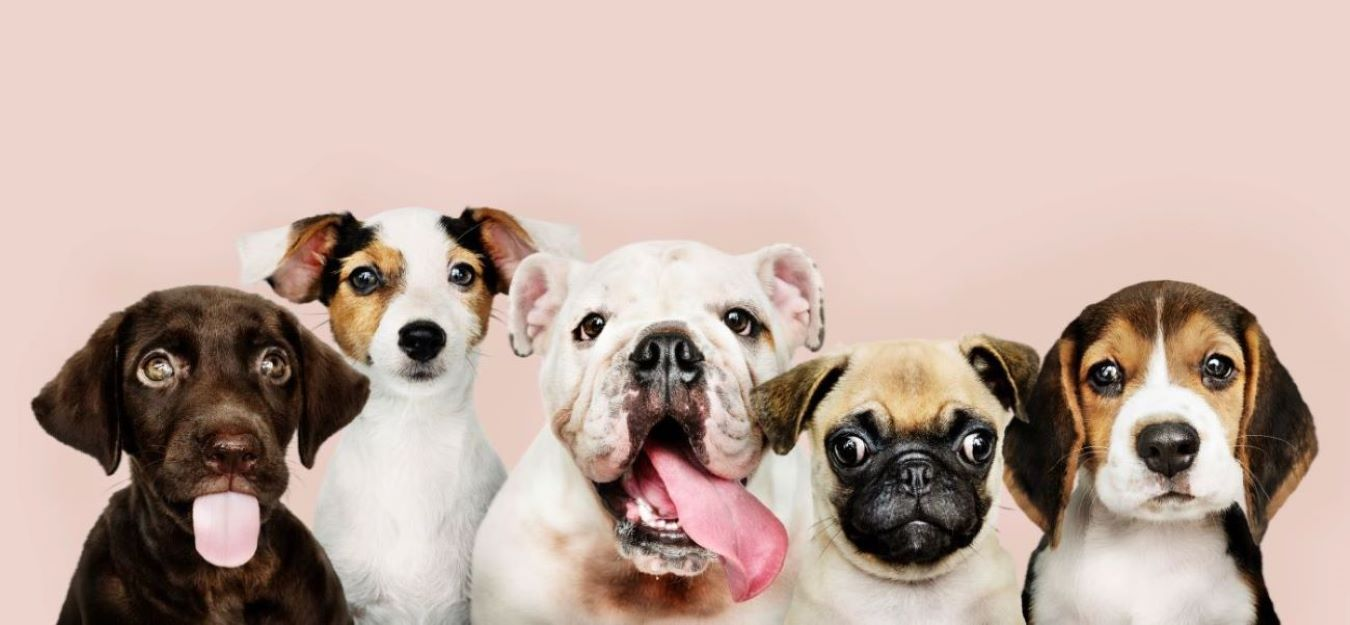
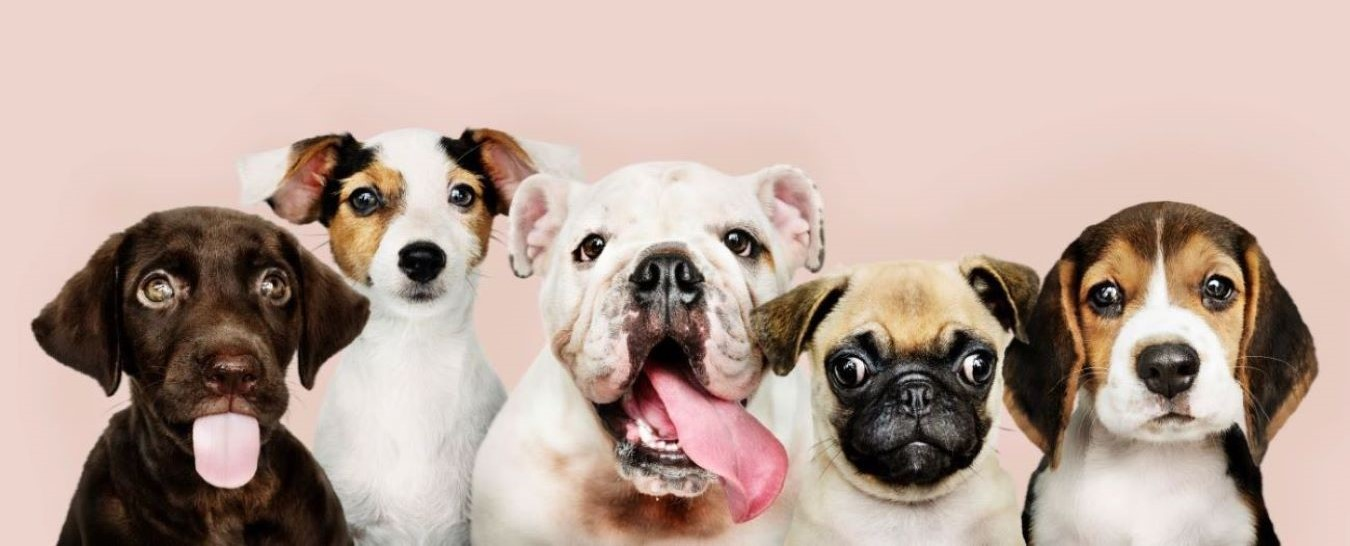
add and compare new background images for home page

diff --git a/src/app/components/Header.jsx b/src/app/components/Header.jsx
@@ -1,16 +1,22 @@
 import logo from "../../../public/assets/img/logo.png"
+import logo_writing from "../../../public/assets/img/logo writing.png"
 import Image from "next/image";
 
 export default function Header() {
   return <header> 
-    <div class="bg-pink-500 h-20 flex items-center">
+    <div class="bg-pink-200 h-20 flex items-center">
     <Image class=""
           src={logo}
           width={80}
           height={80}
           alt="Lau's Paws logo"
         />
-    <span class="text-white text-3xl tracking-tighter font-semibold">LAU'S  PAWS</span>
+    <Image class="pt-2"
+          src={logo_writing}
+          width={200}
+          height={300}
+          alt="Lau's Paws logo"
+        />
     </div>
 
   </header>;

diff --git a/src/app/page.js b/src/app/page.js
@@ -1,10 +1,7 @@
-
-
 export default function Home() {
   return (
     <section>
-      <div class="bg-puppies h-[600px] w-6/6">
-        <h2 class="text-black font-regular italic flex pt-10 pl-10">Licensed and registered dog boarding service operating in Ibstock, Leicestershire</h2>
+      <div class="bg-doggy h-[600px] w-6/6">
       </div>
     </section>
   );

diff --git a/tailwind.config.js b/tailwind.config.js
@@ -8,7 +8,7 @@ module.exports = {
   theme: {
     extend: {
       backgroundImage: {
-        'puppies': "url('/assets/img/puppies.jpg')",
+        'doggy': "url('/assets/img/doggy.jpg')",
       },
     },
   },
